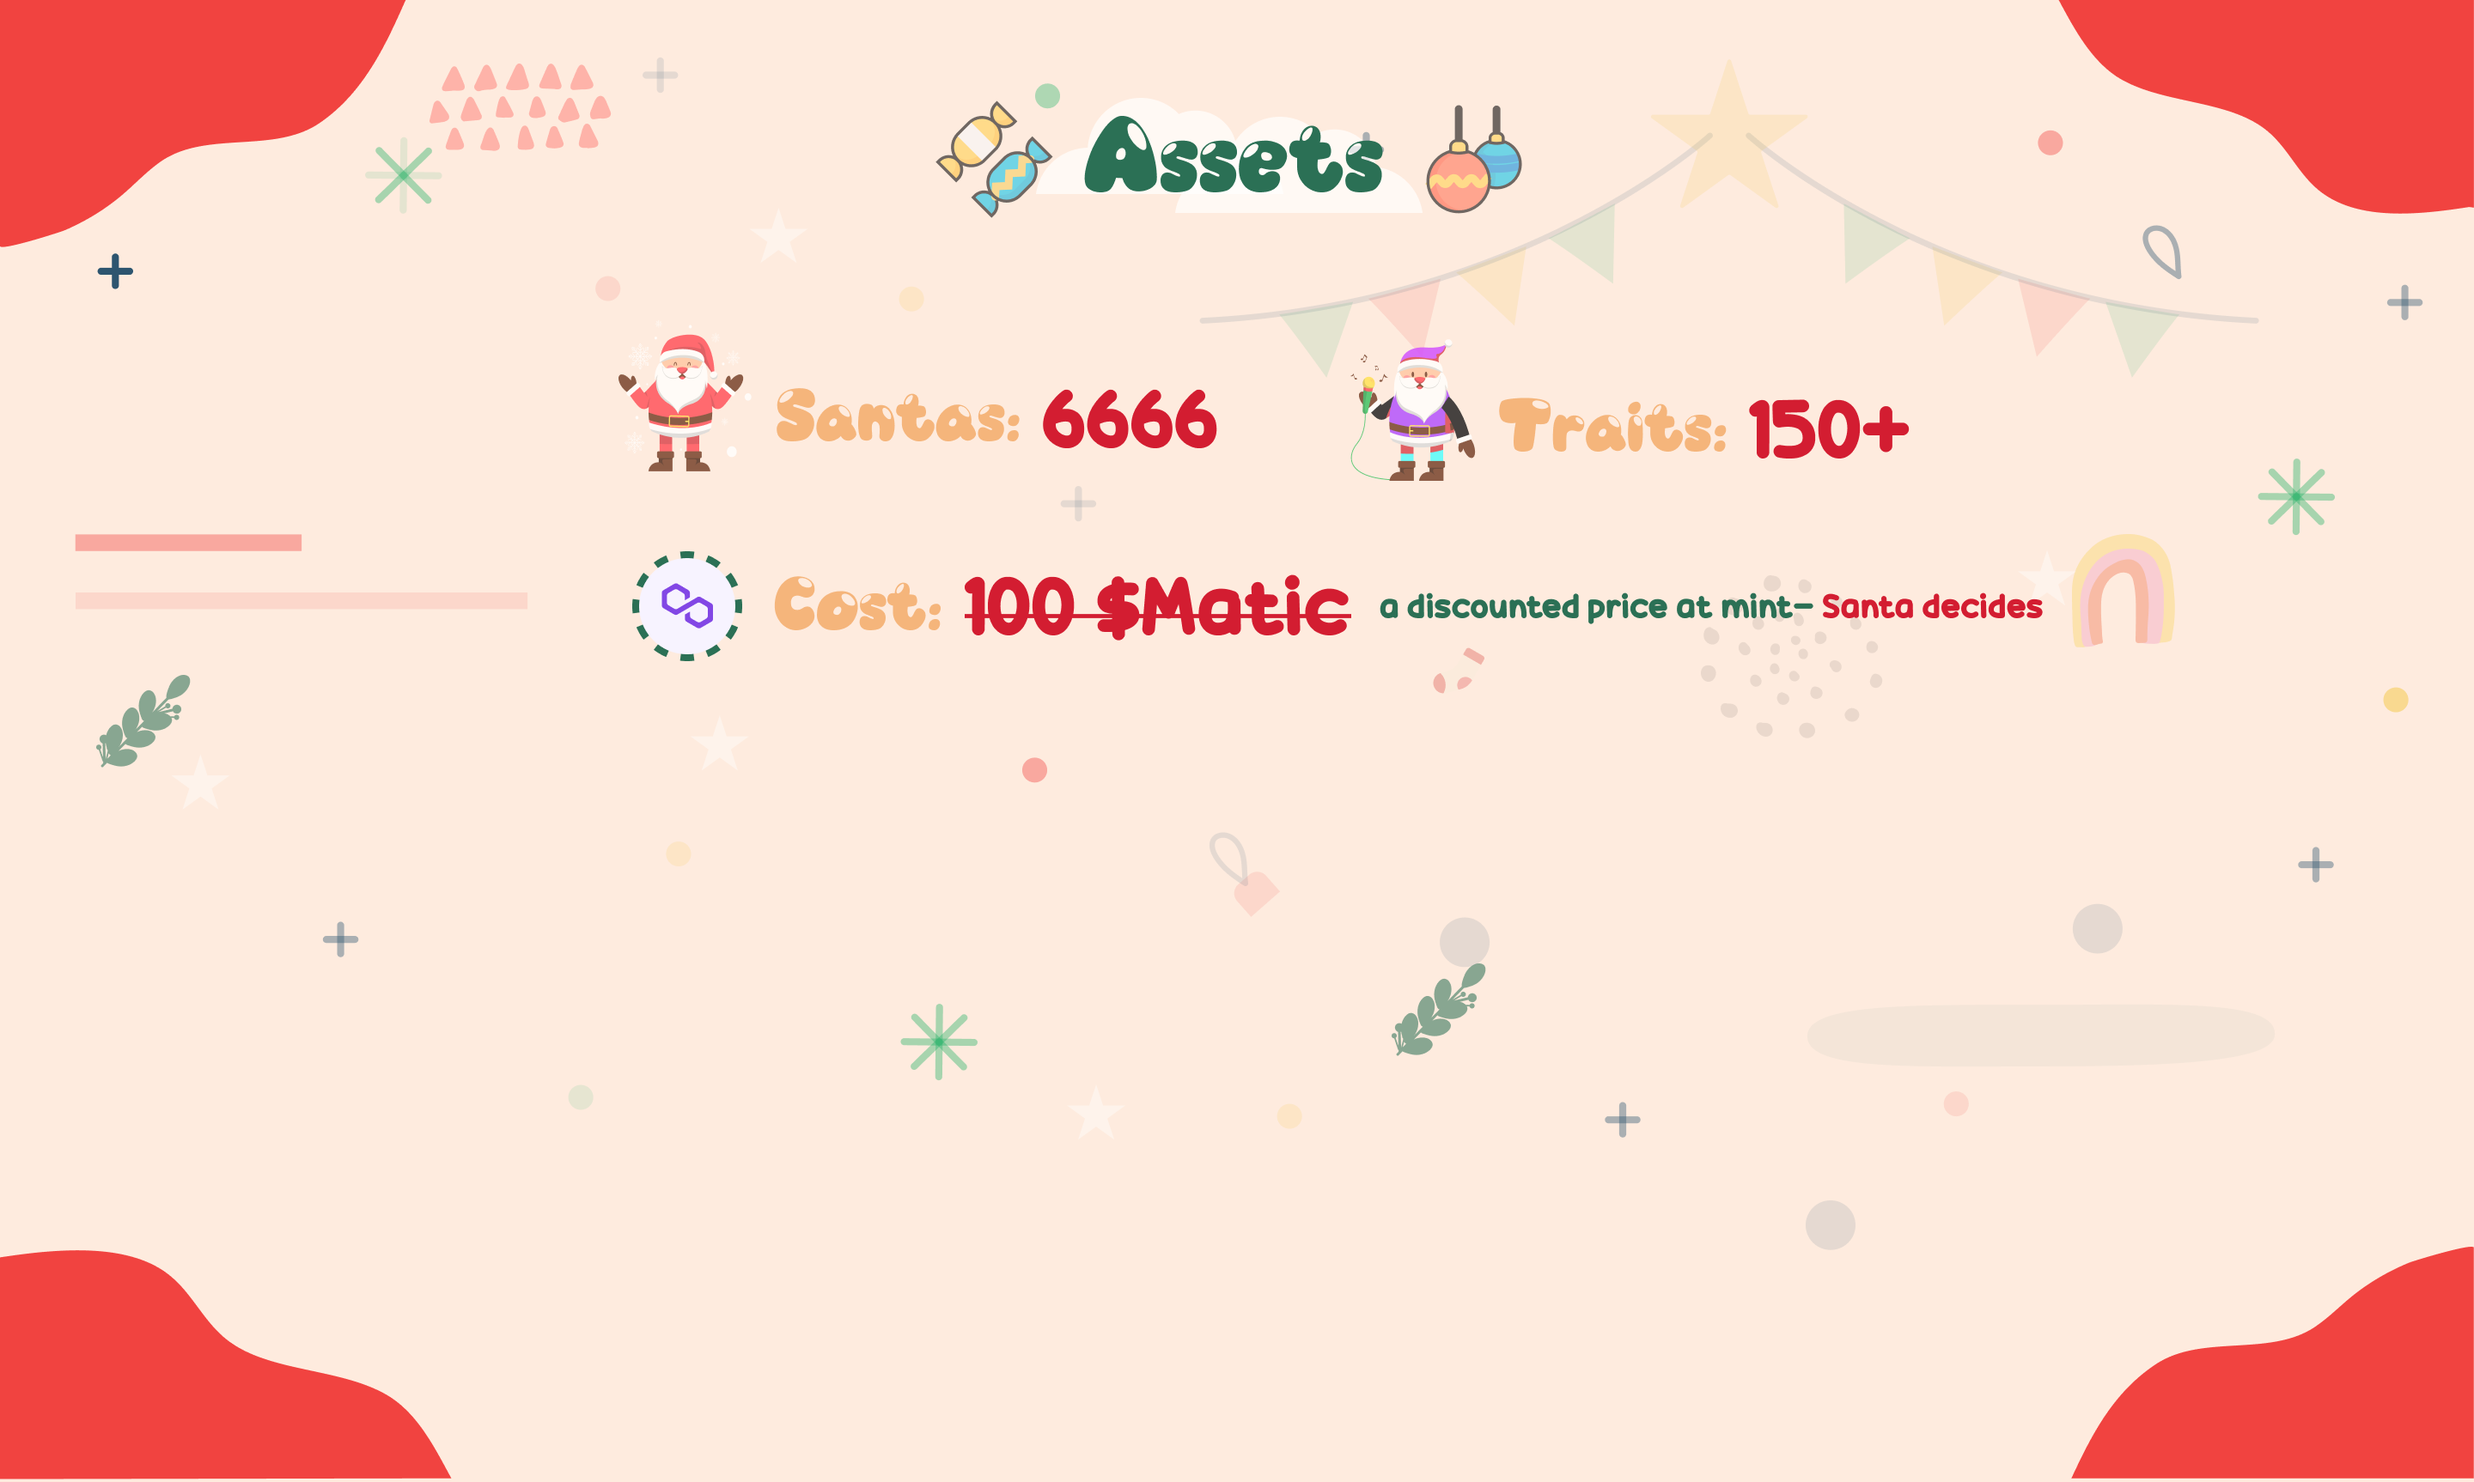
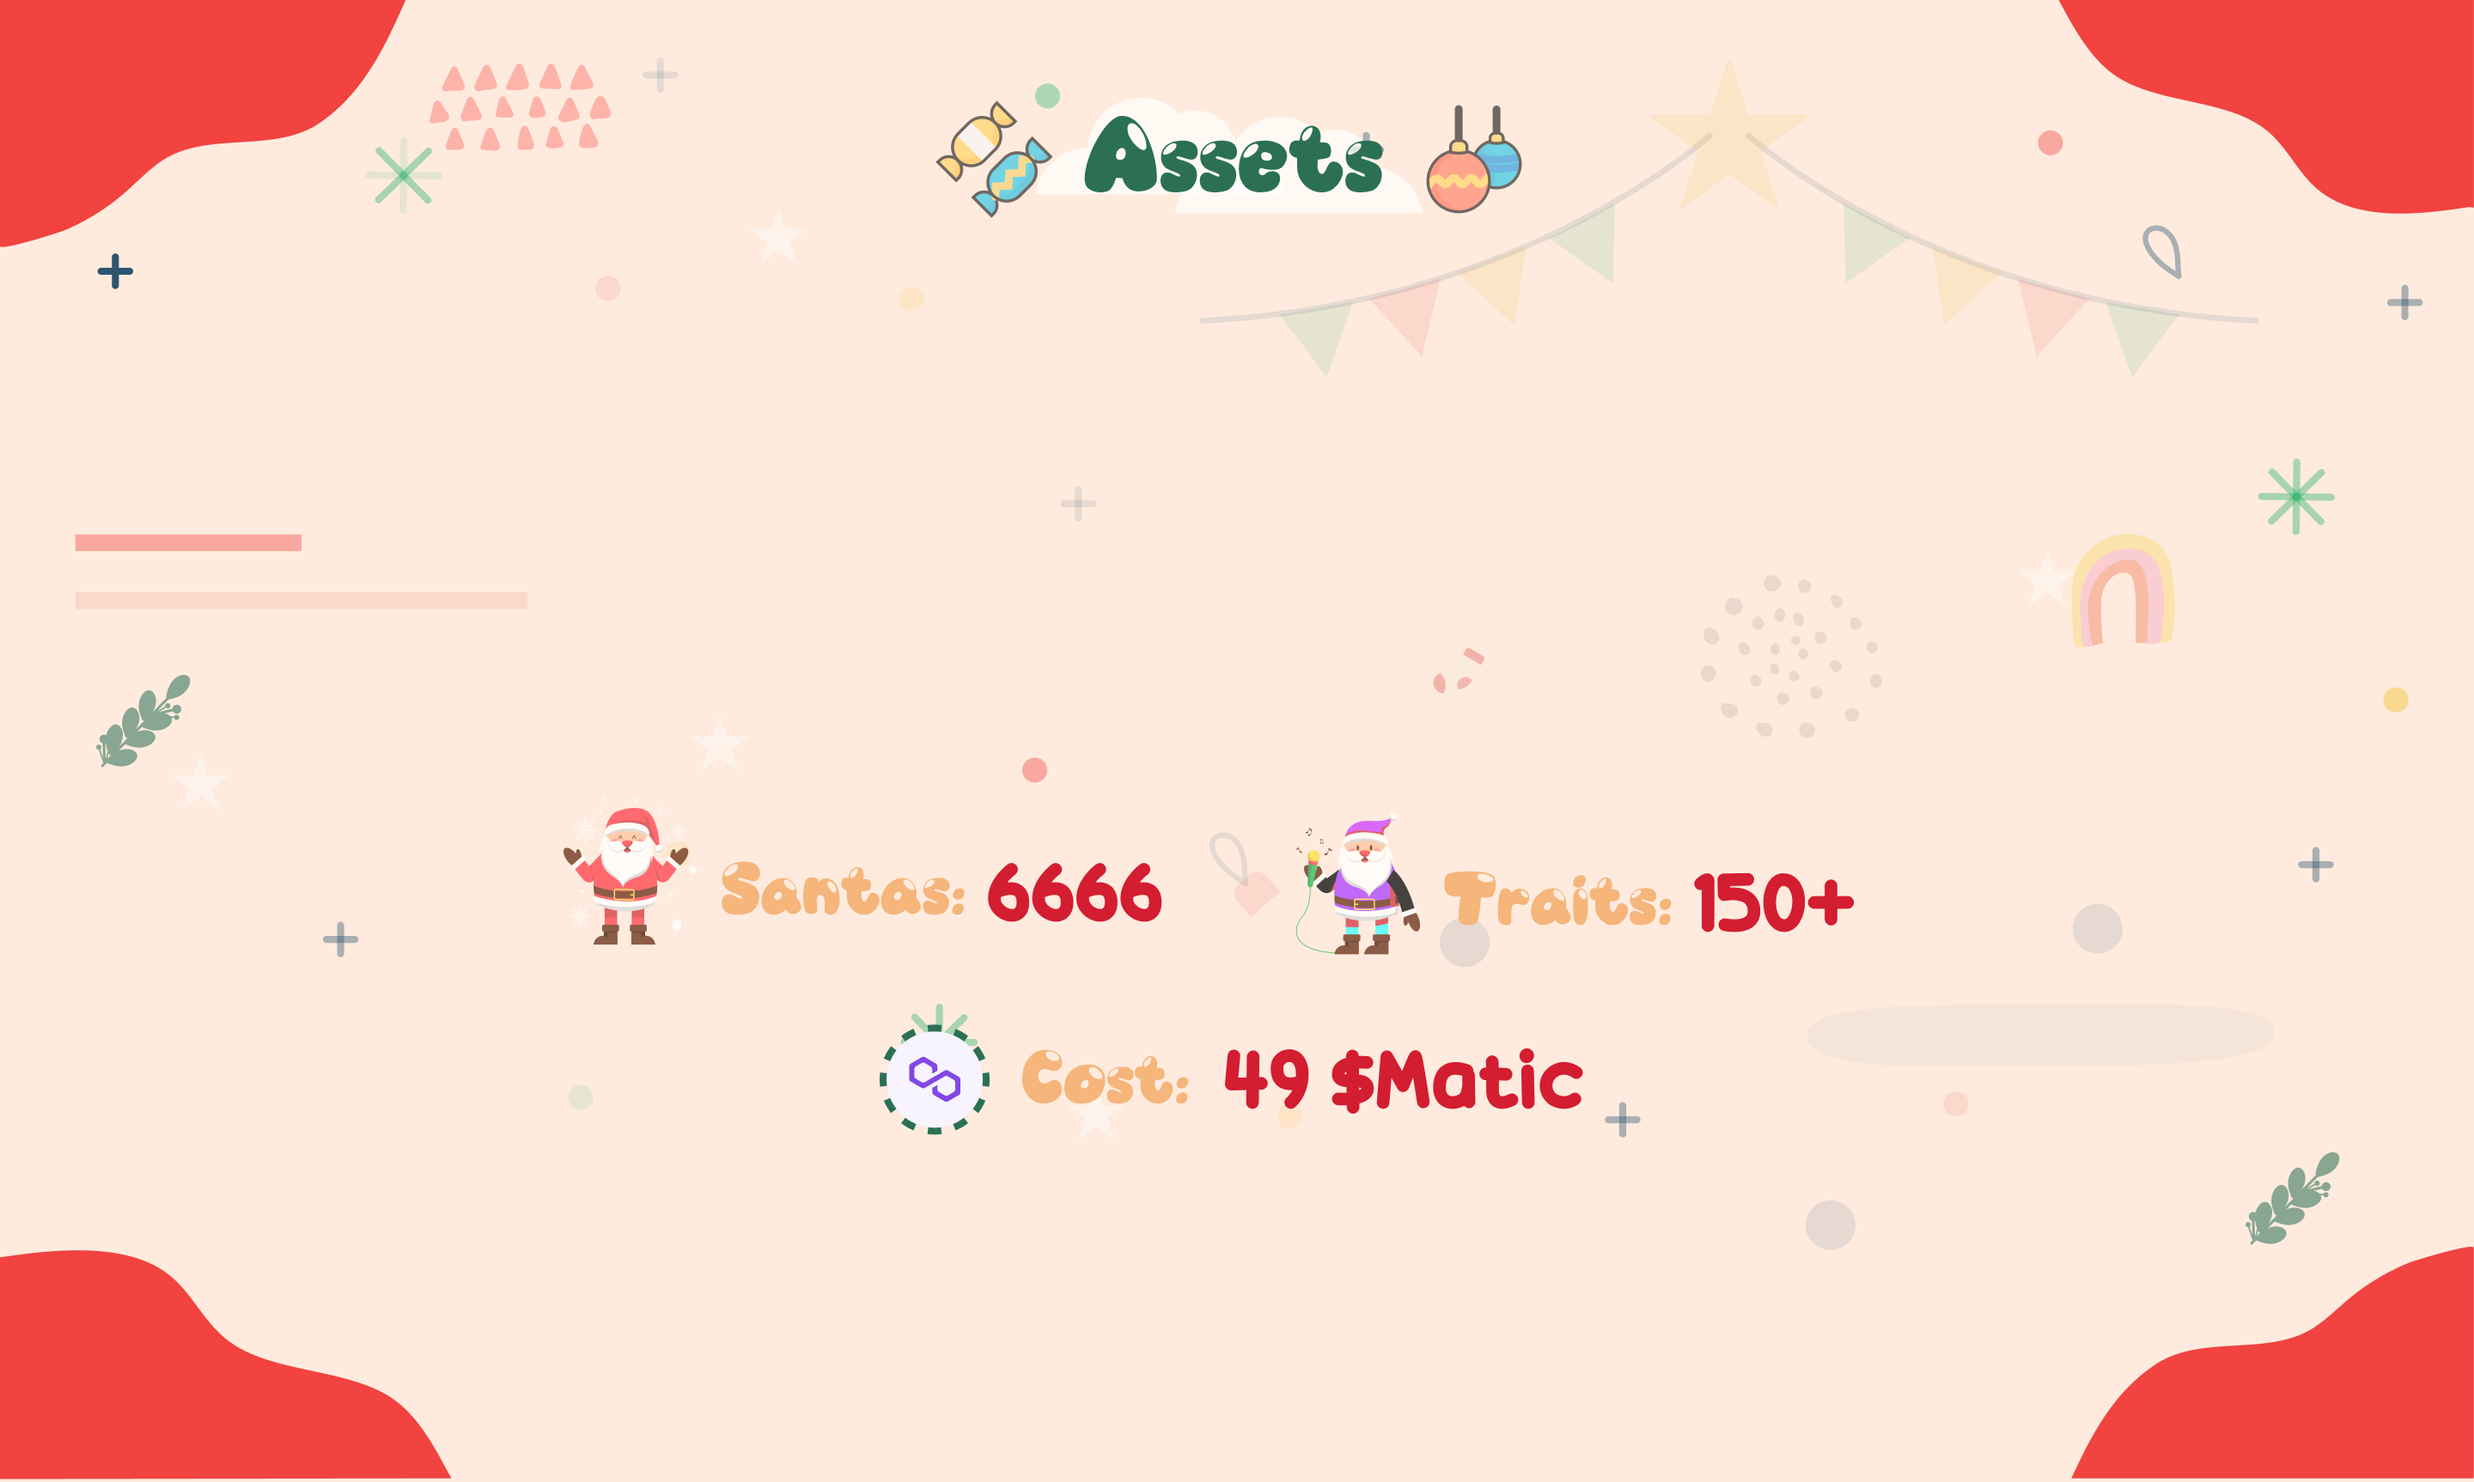
mint button and opensea button

diff --git a/src/styles/app.scss b/src/styles/app.scss
@@ -31,6 +31,10 @@
         height: 18px;
       }
     }
+    .opensea {
+      cursor: not-allowed;
+      opacity: 0.5;
+    }
   }
   .img {
     width: 100%;
@@ -43,7 +47,7 @@
     justify-content: center;
     align-items: center;
     position: absolute;
-    bottom: 20%;
+    top: 20%;
     .rowContainer {
       position: relative;
       width: 100%;
@@ -72,10 +76,33 @@
       }
     }
     @media screen and (min-width: 768px) and (max-width: 1024px) {
-      bottom: 10%;
+      top: 15%;
     }
     @media screen and (min-width: 320px) and (max-width: 767px) {
       padding: 10px;
+    }
+  }
+  .mint-button {
+    position: absolute;
+    width: 100%;
+    bottom: 10%;
+    left: 0;
+    text-align: center;
+    cursor: not-allowed;
+    opacity: 0.5;
+    @media screen and (min-width: 768px) and (max-width: 1024px) {
+      bottom: 10%;
+      svg {
+        width: 180px;
+        height: 40px;
+      }
+    }
+    @media screen and (min-width: 320px) and (max-width: 767px) {
+      bottom: 5%;
+      svg {
+        width: 120px;
+        height: 30px;
+      }
     }
   }
 }

diff --git a/src/Sections/Landing/Landing.jsx b/src/Sections/Landing/Landing.jsx
@@ -23,6 +23,14 @@ const Landing = () => {
         >
           <Sprite id="twitter" width={56} height={56} />
         </a>
+        <a
+          href="https://twitter.com/secretsanta_nft"
+          target="_blank"
+          rel="referrer noopener"
+          className={`opensea`}
+        >
+          <Sprite id="opensea" width={56} height={56} />
+        </a>
       </div>
     </div>
   );

diff --git a/src/Sections/Assets/Assets.jsx b/src/Sections/Assets/Assets.jsx
@@ -1,3 +1,5 @@
+import { Sprite } from '../../components'
+
 const Assets = () => {
   return (
     <div style={{ position: "relative", top: "-15px" }}>
@@ -37,6 +39,9 @@ const Assets = () => {
           </div>
         </div>
       </div>
+      <span className={`mint-button`}>
+        <Sprite id="mint-button" width={250} height={70} />
+      </span>
     </div>
   );
 };
